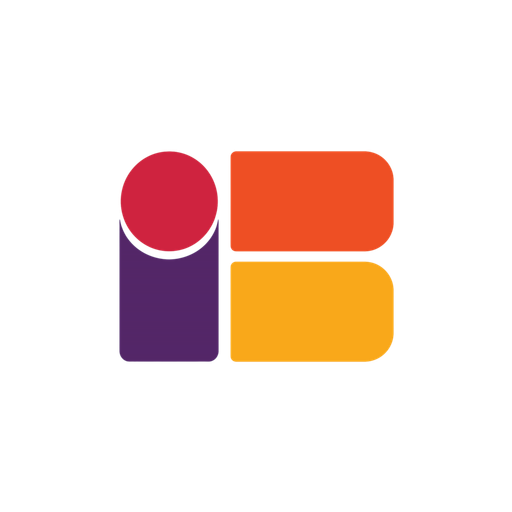
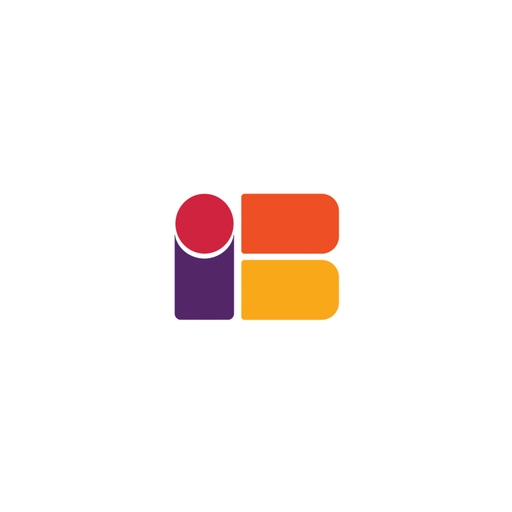
PWA Re-adjust

Changed region(s): [[0.2188, 0.2812, 0.7812, 0.7188]]

diff --git a/generate-icons.js b/generate-icons.js
@@ -4,7 +4,7 @@ const sharp = require('sharp');
 const fs = require('fs');
 const path = require('path');
 
-const LOGO_PATH = path.join(__dirname, 'public/BIDPaL Logo V2.png');
+const LOGO_PATH = path.join(__dirname, 'public/file.png');
 
 async function generateIcons() {
   console.log('Generating favicon and PWA icons...');
